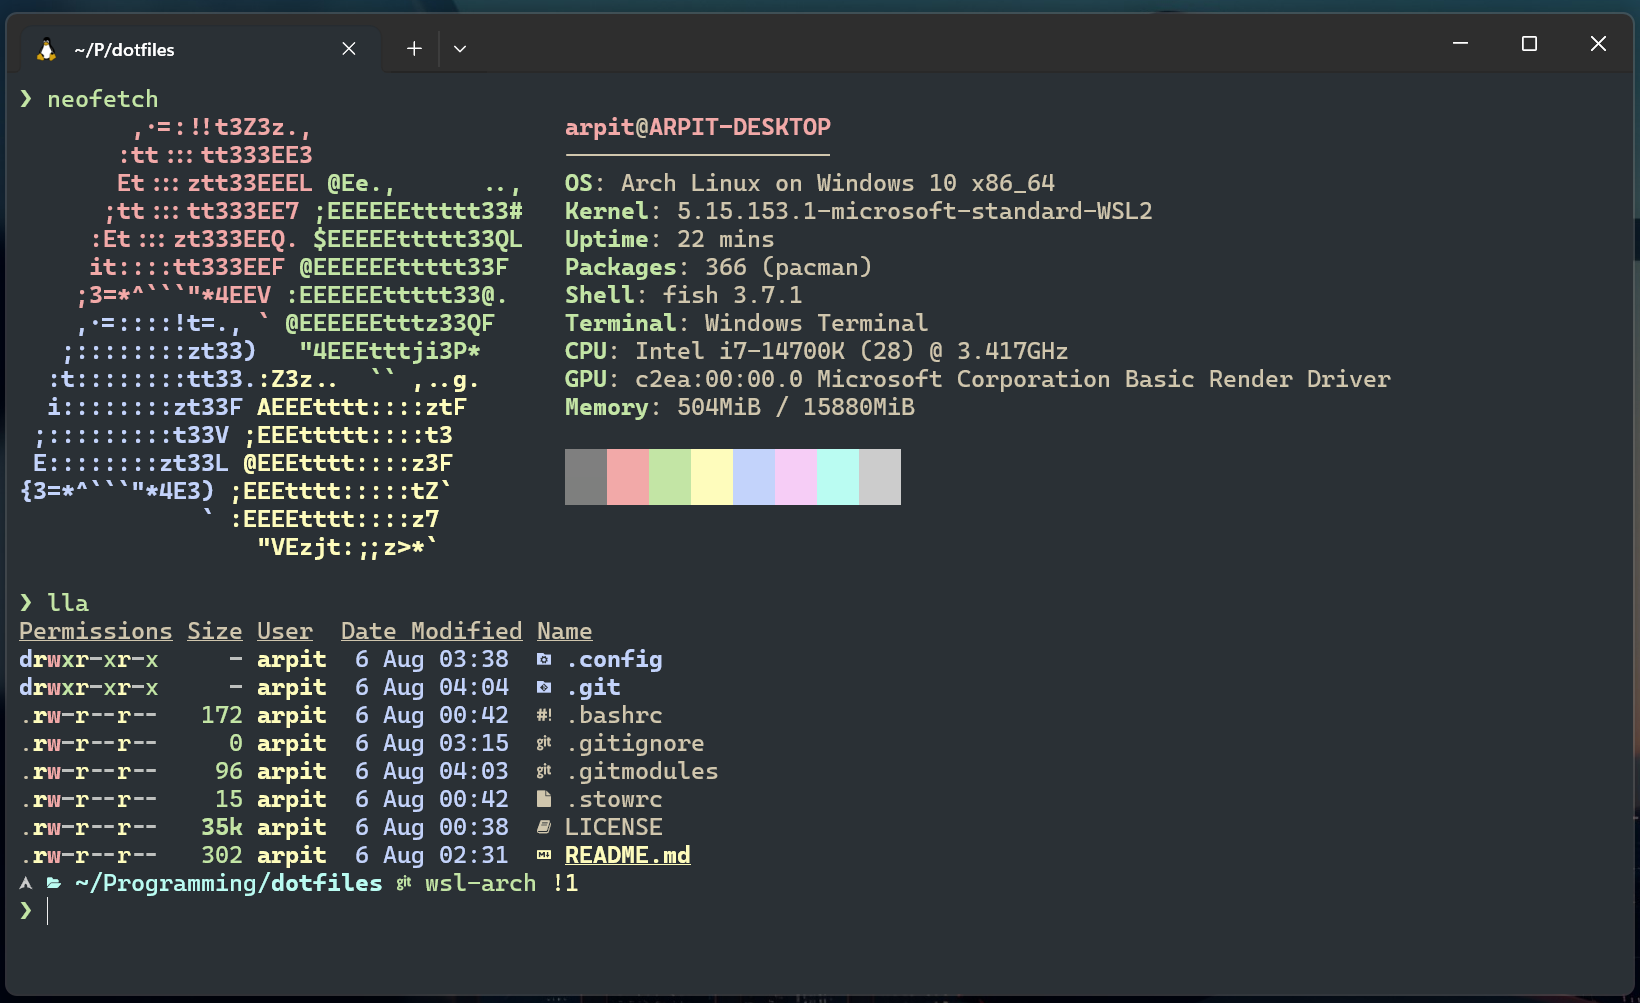
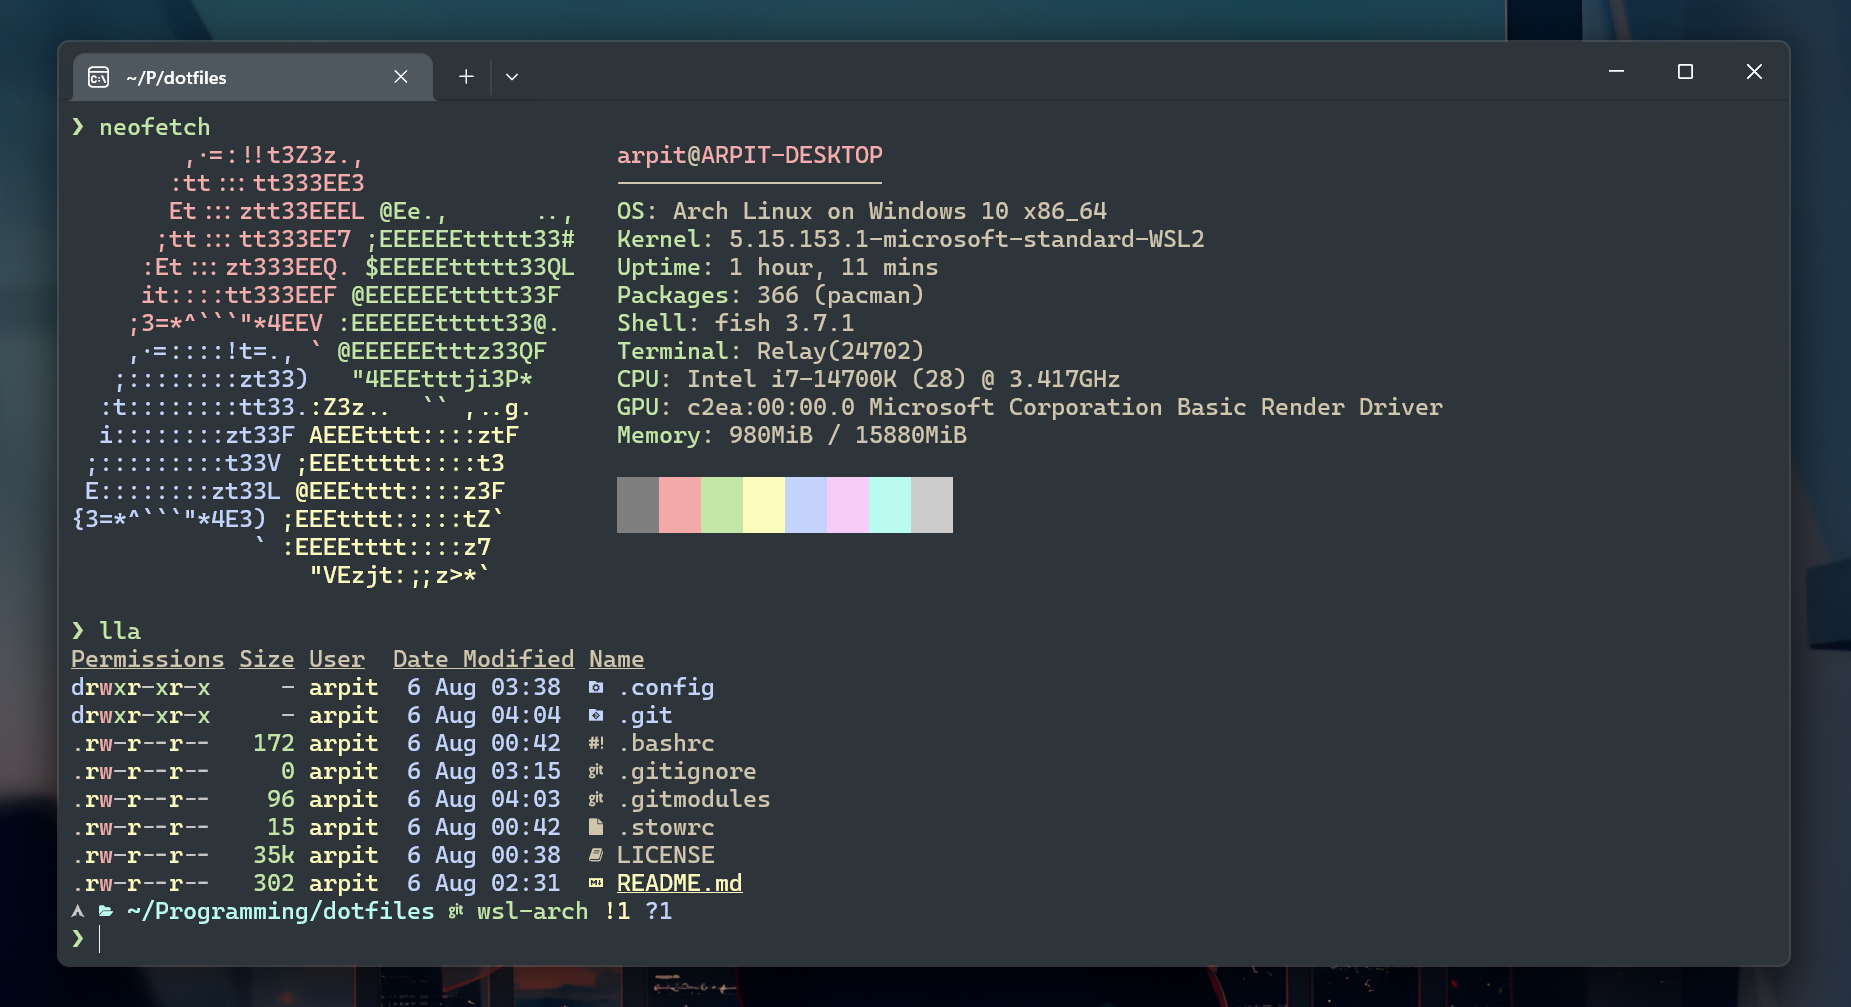
docs: update readme with updated preview

Changed region(s): [[0.0, 0.0, 1.0, 1.0]]

diff --git a/README.md b/README.md
@@ -13,8 +13,13 @@ Slightly customized everforest color scheme for the windows terminal
 
 ## Usage
 
-Append the scheme defined under `schemes` list in `schemes.json` to the `settings.json` file of windows terminal which could be opened using:
+Open windows terminal settings JSON file by:
 
 ```
 Settings -> Open JSON file
 ```
+
+Now:
+
+- Append the scheme defined under `schemes` list in `schemes.json` to `schemes` property in `settings.json`
+- Append the scheme defined under `themes` list in `themes.json` to `themes` property in `settings.json`
